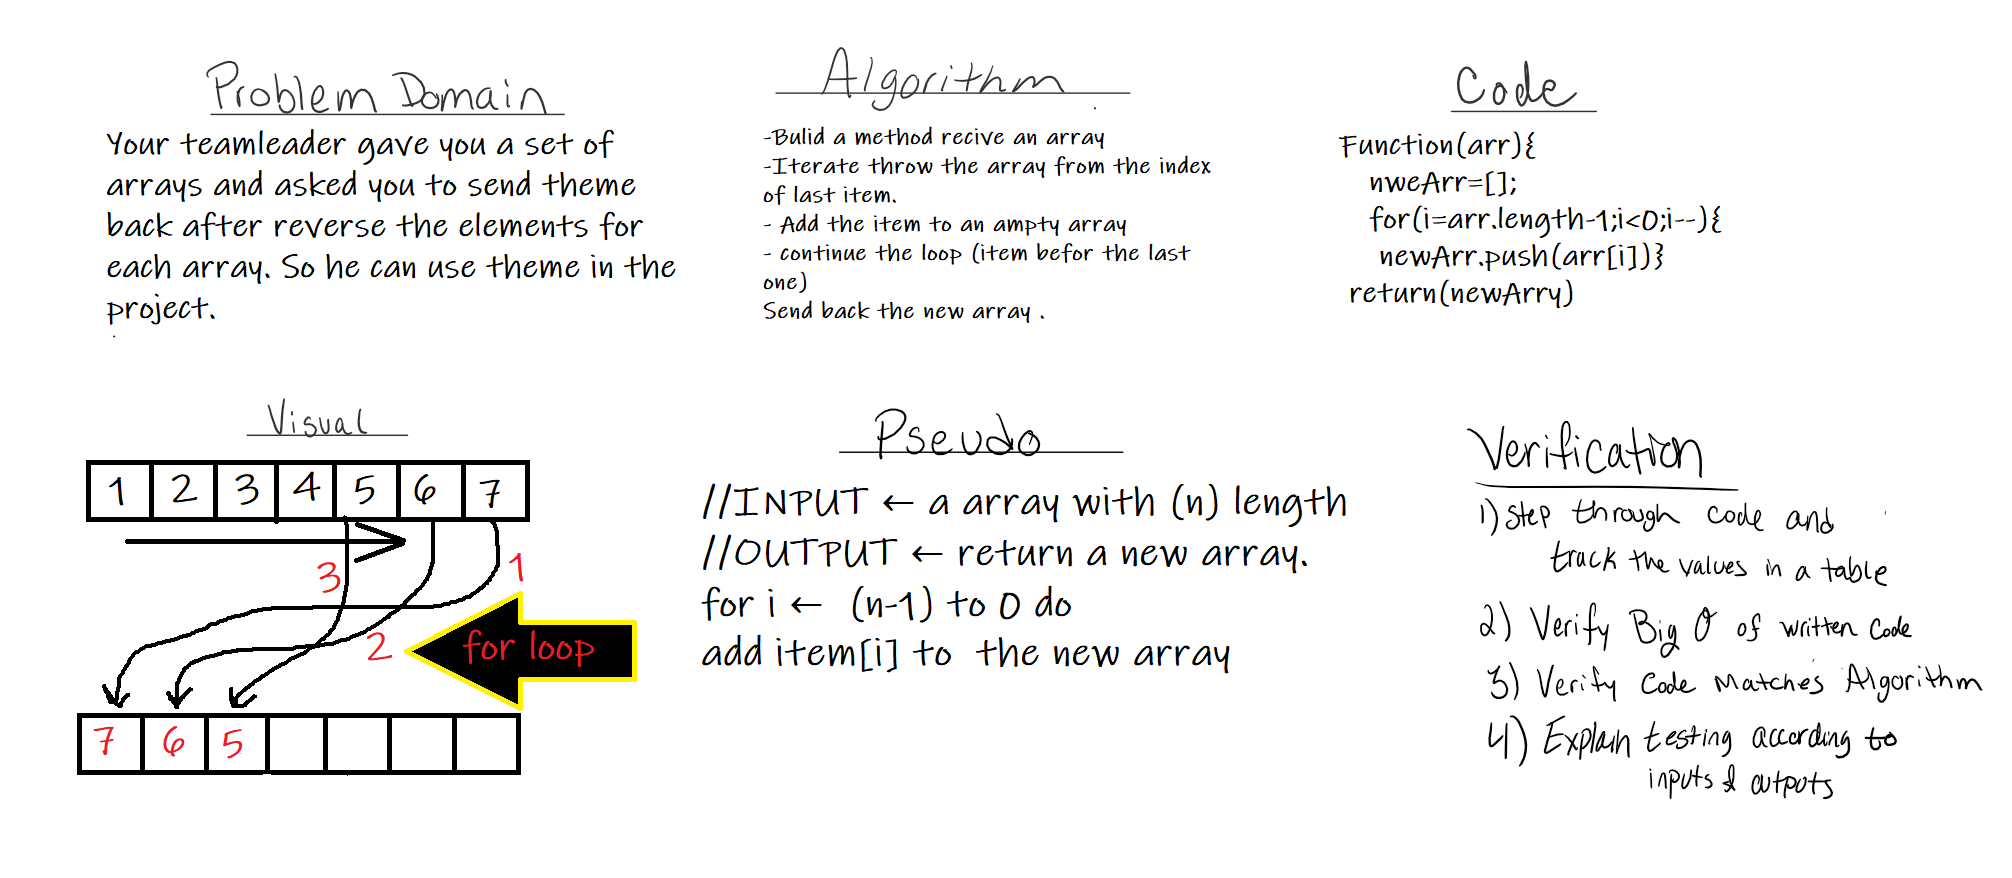
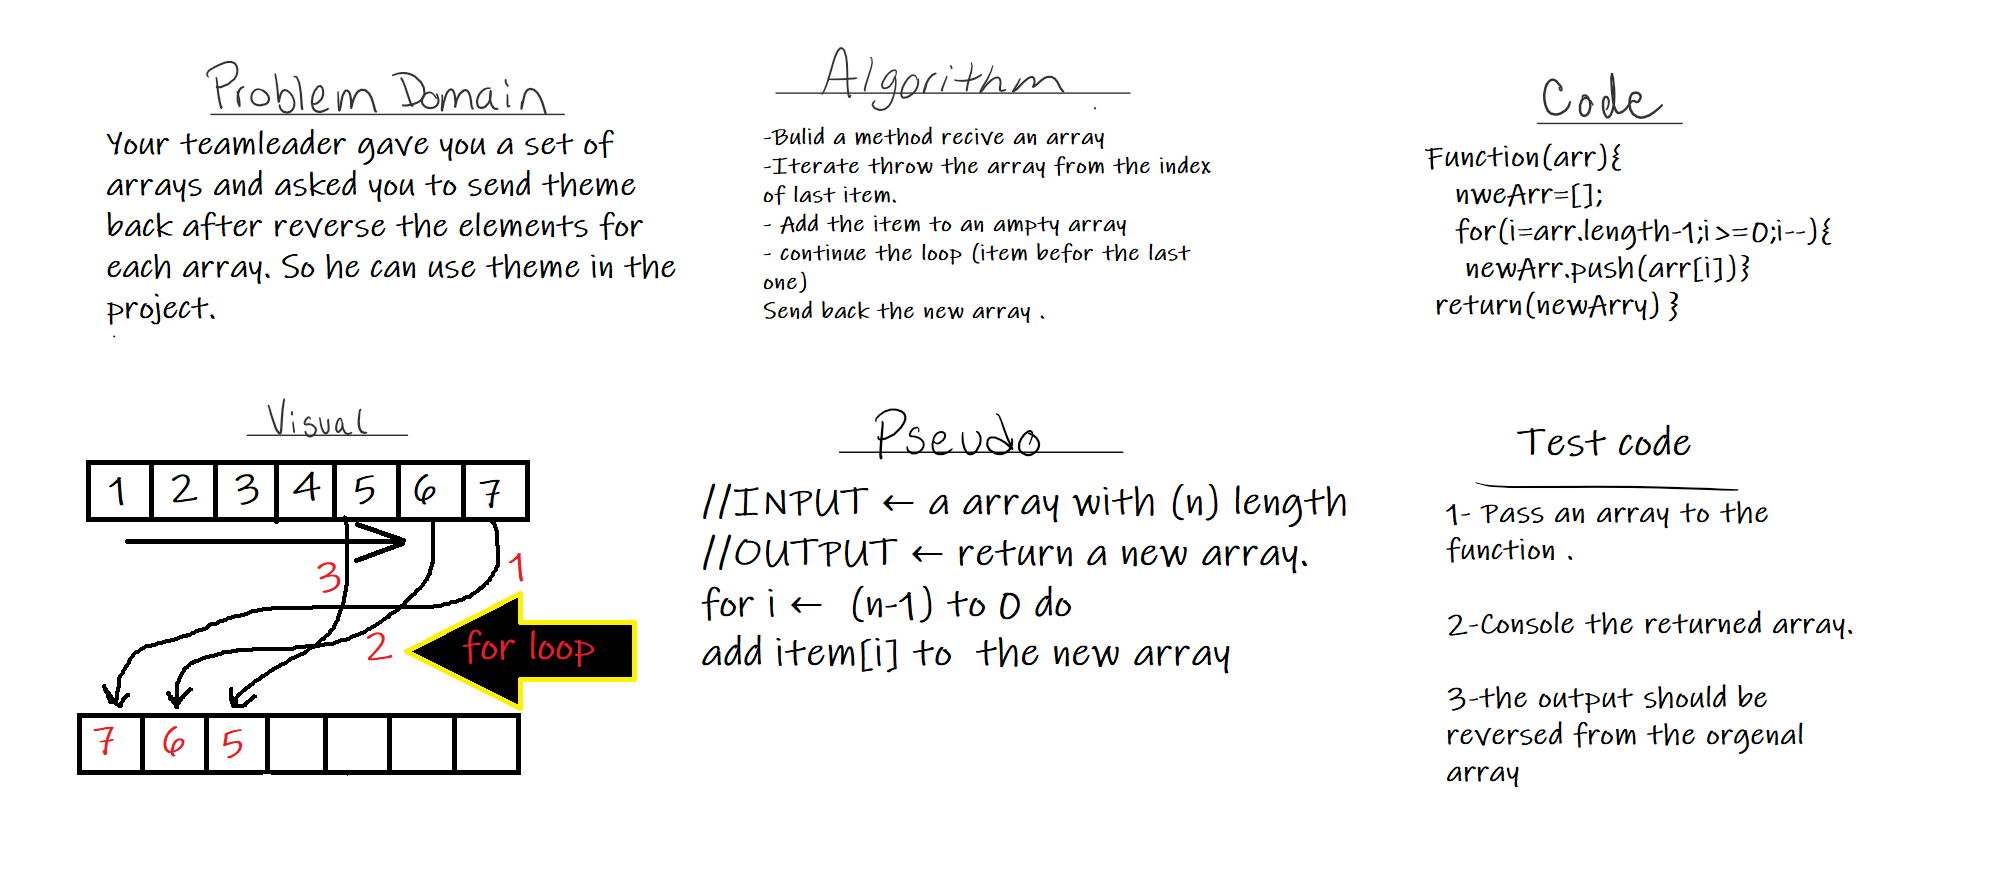
reverse array

diff --git a/code-challenges-401/README.md b/code-challenges-401/README.md
@@ -1,10 +1,16 @@
 # Reverse an Array
 <!-- Description of the challenge -->
+To find the best way revers the order of the elements in an array and return the value to be used
 
 ## Whiteboard Process
 <!-- Embedded whiteboard image -->
 
-## Approach & Efficiency
-
 ![img](./array-reverse.png)
 
+![img](./code.png)
+
+## Approach & Efficiency
+
+* creating a function, containing for loop, receive an array and push the elements from last element to the first index of new array
+  
+* the assignment took  1 hour.
